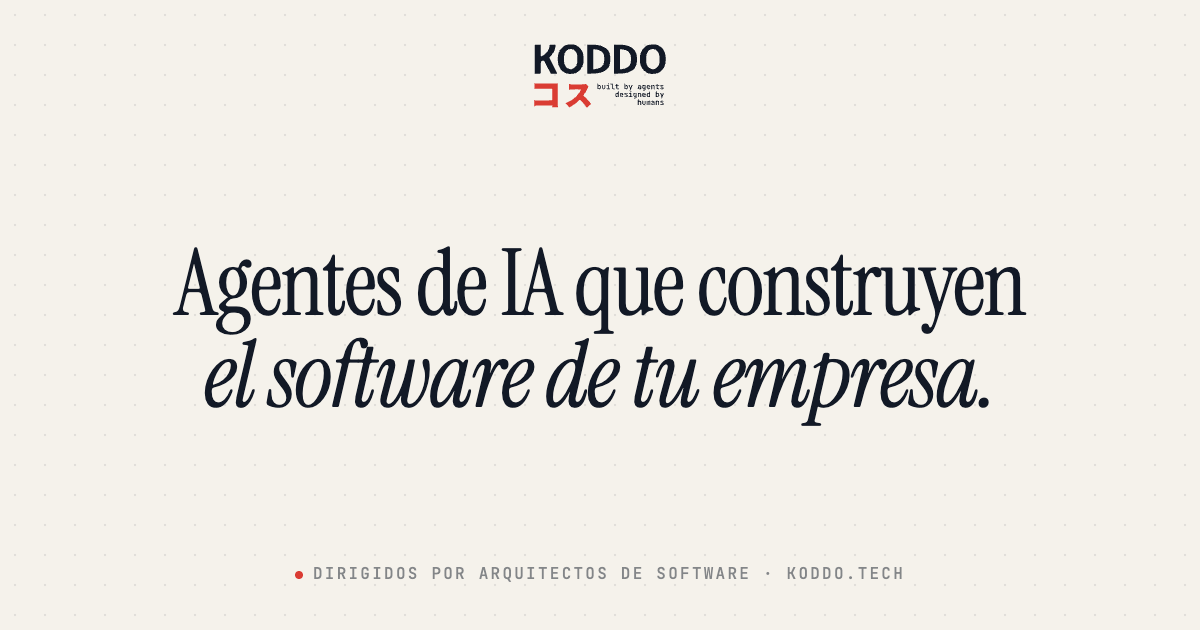
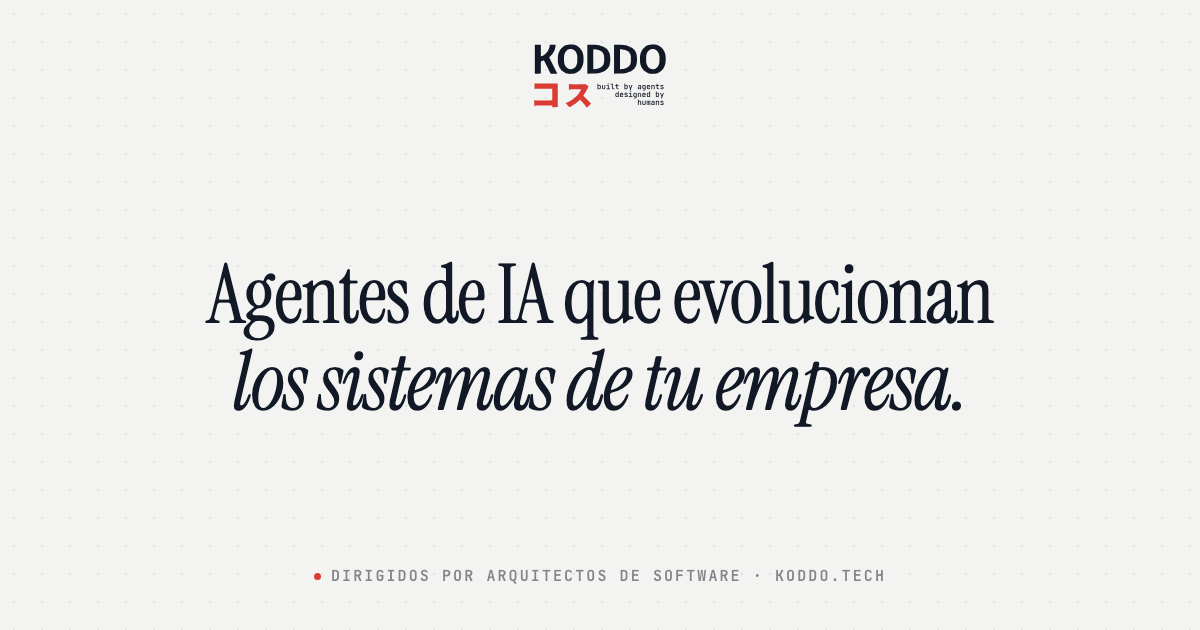
Imágenes para compartir: frase nueva y paleta gris humo

Changed region(s): [[0.1233, 0.3921, 0.8633, 0.6937], [0.2467, 0.9048, 0.74, 0.9349], [0.5242, 0.1206, 0.555, 0.1508]]

diff --git a/index.html b/index.html
@@ -13,7 +13,7 @@
   <meta property="og:description" content="Agentes de IA que desarrollan y mantienen los sistemas de tu empresa, con arquitectos que revisan cada entrega. Por suscripción, desde 199 créditos al mes.">
   <meta property="og:type" content="website">
   <meta property="og:url" content="https://www.koddo.tech/">
-  <meta property="og:image" content="https://www.koddo.tech/images/og-hero.png?v=3">
+  <meta property="og:image" content="https://www.koddo.tech/images/og-hero.png?v=4">
   <meta property="og:image:type" content="image/png">
   <meta property="og:image:width" content="1200">
   <meta property="og:image:height" content="630">
@@ -22,7 +22,7 @@
   <meta property="og:locale" content="es_ES">
   <meta property="og:locale:alternate" content="en_US">
   <meta name="twitter:card" content="summary_large_image">
-  <meta name="twitter:image" content="https://www.koddo.tech/images/og-hero.png?v=3">
+  <meta name="twitter:image" content="https://www.koddo.tech/images/og-hero.png?v=4">
   <link rel="alternate" type="text/markdown" href="/about-koddo.md">
   <meta name="llm-context" content="/about-koddo.md">
   <script type="application/ld+json">
@@ -35,7 +35,7 @@
       "name": "Koddo",
       "url": "https://www.koddo.tech",
       "logo": "https://www.koddo.tech/images/logo-koddo-ink.png",
-      "image": "https://www.koddo.tech/images/og-hero.png?v=3",
+      "image": "https://www.koddo.tech/images/og-hero.png?v=4",
       "slogan": "Built by agents, designed by humans",
       "description": "Empresa que desarrolla y mantiene los sistemas de otras empresas con agentes de inteligencia artificial, supervisión humana y seguridad.",
       "address": {

diff --git a/en/index.html b/en/index.html
@@ -13,7 +13,7 @@
   <meta property="og:description" content="AI agents that develop and maintain your company's systems, with architects who review every delivery. By subscription, from 199 credits a month.">
   <meta property="og:type" content="website">
   <meta property="og:url" content="https://www.koddo.tech/en">
-  <meta property="og:image" content="https://www.koddo.tech/images/og-hero-en.png?v=2">
+  <meta property="og:image" content="https://www.koddo.tech/images/og-hero-en.png?v=3">
   <meta property="og:image:type" content="image/png">
   <meta property="og:image:width" content="1200">
   <meta property="og:image:height" content="630">
@@ -22,7 +22,7 @@
   <meta property="og:locale" content="en_US">
   <meta property="og:locale:alternate" content="es_ES">
   <meta name="twitter:card" content="summary_large_image">
-  <meta name="twitter:image" content="https://www.koddo.tech/images/og-hero-en.png?v=2">
+  <meta name="twitter:image" content="https://www.koddo.tech/images/og-hero-en.png?v=3">
   <link rel="alternate" type="text/markdown" href="/about-koddo.md">
   <meta name="llm-context" content="/about-koddo.md">
   <script type="application/ld+json">
@@ -35,7 +35,7 @@
       "name": "Koddo",
       "url": "https://www.koddo.tech",
       "logo": "https://www.koddo.tech/images/logo-koddo-ink.png",
-      "image": "https://www.koddo.tech/images/og-hero.png?v=3",
+      "image": "https://www.koddo.tech/images/og-hero.png?v=4",
       "slogan": "Built by agents, designed by humans",
       "description": "A company that develops and maintains other companies' systems with artificial intelligence agents, human oversight and security.",
       "address": {
